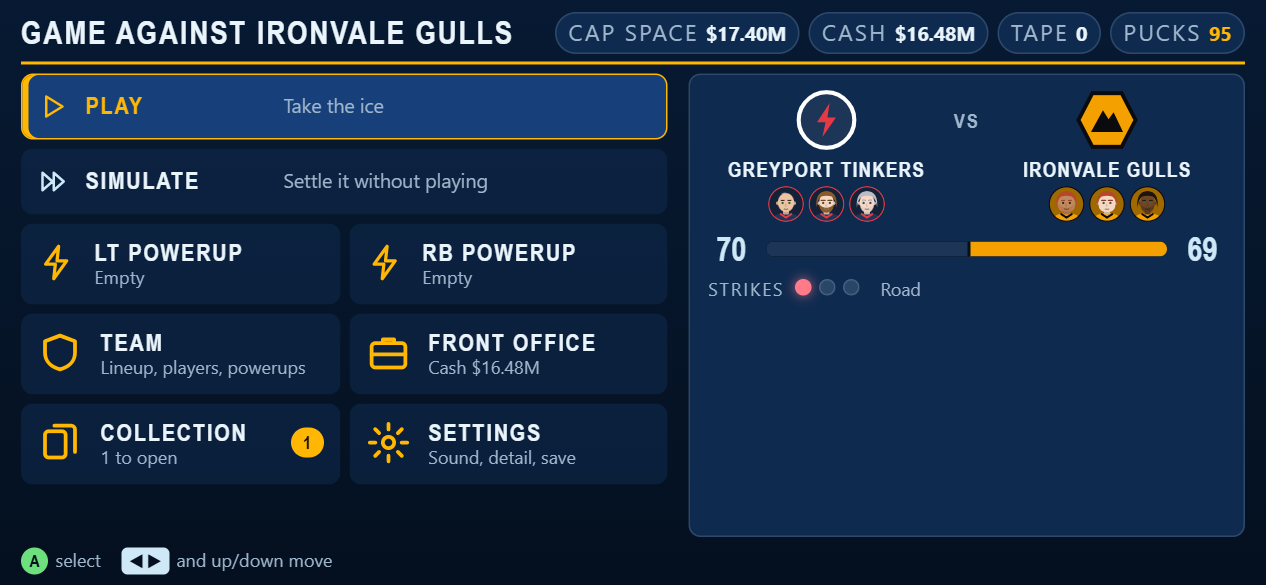
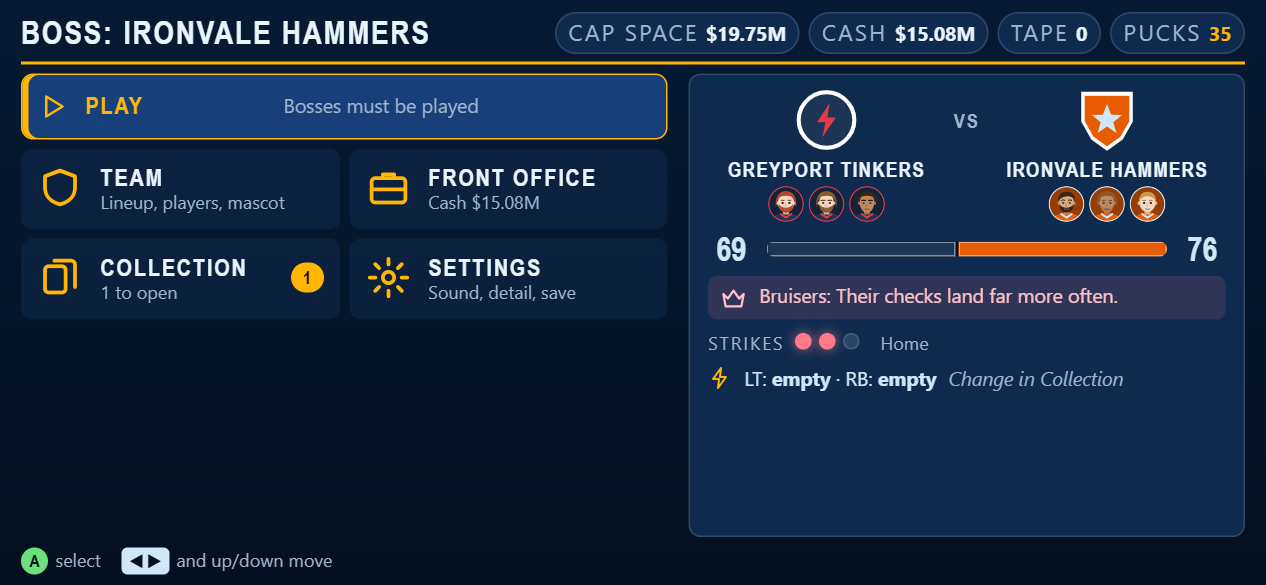
Move powerup selection into Collection, beside Gear
The LT and RB tiles are gone from the game screen and the Powerups row
from Team. The game poster still says what each button has loaded.

diff --git a/src/ui/App.tsx b/src/ui/App.tsx
@@ -159,8 +159,6 @@ const TILE_ICONS: Record<string, IconName> = {
   exhibition: 'exhibition',
   contracts: 'contracts',
   bailout: 'bailout',
-  'load-0': 'powerups',
-  'load-1': 'powerups',
 };
 const BUTTONS = ['LT', 'RB'];
 
@@ -310,9 +308,9 @@ export function App() {
   const earlyLock = f.books.length === 0 ? 'Opens after your first season.' : undefined;
   /** The four groups every hub screen ends with. */
   const groupItems = (): MenuItem[] => [
-    tile('team', 'Team', locked ? 'Roster, lineup, powerups, mascot' : 'Roster, lineup, free agents, trades, mascot', () => openGroup('team'), { badge: f.offseason.pending.length }),
+    tile('team', 'Team', locked ? 'Roster, lineup, mascot' : 'Roster, lineup, free agents, trades, mascot', () => openGroup('team'), { badge: f.offseason.pending.length }),
     tile('office', 'Front office', 'Finances, staff, facilities, prestige', () => openGroup('office')),
-    tile('collection', 'Collection', 'Packs, gear, artifacts, jersey', () => openGroup('collection'), { badge: f.packs.length }),
+    tile('collection', 'Collection', locked ? 'Packs, gear, powerups, artifacts, jersey' : 'Packs, gear, artifacts, jersey', () => openGroup('collection'), { badge: f.packs.length }),
     tile('settings', 'Settings', `Difficulty: ${difficultyInfo(f.difficulty).name} · save and load`, () => openGroup('settings')),
   ];
   const bump = (id: string): number => season.bumps[id] ?? 0;
@@ -558,7 +556,7 @@ export function App() {
 
     /** The four groups as dashboard tiles, for the foot of every in-season screen. */
     const groupCards = (): MenuItem[] => [
-      card('team', 'Team', 'Lineup, players, powerups', () => openGroup('team')),
+      card('team', 'Team', 'Lineup, players, mascot', () => openGroup('team')),
       card('office', 'Front office', `Cash ${money(f.cash)}`, () => openGroup('office')),
       card('collection', 'Collection', f.packs.length > 0 ? `${f.packs.length} to open` : `${f.gear.length} pieces`, () => openGroup('collection'), { badge: f.packs.length }),
       card('settings', 'Settings', 'Sound, detail, save', () => openGroup('settings')),
@@ -618,6 +616,11 @@ export function App() {
                 )}
                 <span>{isHomeGame(season.gamesPlayed + 1) ? 'Home' : 'Road'}</span>
               </div>
+              <div class="poster-loadout">
+                <Icon name="powerups" size={16} />
+                {loadoutLine}
+                <span class="note">Change in Collection</span>
+              </div>
             </MatchupPoster>
           }
           help="A select · left/right and up/down move"
@@ -631,23 +634,6 @@ export function App() {
                   }),
                 ]
               : []),
-            ...BUTTONS.map((button, slot): MenuItem => {
-              const id = season.loadout[slot];
-              return {
-                key: `load-${slot}`,
-                label: (
-                  <span class="dash-tile">
-                    <Icon name={id ? powerupIcon(id) : 'powerups'} size={26} />
-                    <span class="dash-text">
-                      <span class="dash-name">{button} powerup</span>
-                      <span class="dash-status">{id ? powerupInfo(id).name : 'Empty'}</span>
-                    </span>
-                  </span>
-                ),
-                detail: id ? powerupInfo(id).description : 'Choose a powerup to trigger with this button during the game.',
-                onSelect: () => go({ name: 'load', slot }),
-              };
-            }),
             ...groupCards(),
           ]}
         />
@@ -1660,7 +1646,6 @@ export function App() {
           tile('trade', 'Trade', 'One player for one player', () => go({ name: 'tradeTeams' }), {
             lock: locked ? 'Trades happen in the off-season.' : pending > 0 ? 'Decide your expiring contracts first.' : undefined,
           }),
-          ...(locked ? [tile('powerups', 'Powerups', `${season.powerups.length} in the bag`, () => go({ name: 'powerups' }))] : []),
           tile('mascot', 'Mascot', f.mascot.name, () => go({ name: 'mascot' })),
         ]}
       />
@@ -1707,6 +1692,13 @@ export function App() {
             detail: 'Packs are earned by winning season games and by reaching milestones.',
           }),
           tile('gear', 'Gear', `${f.gear.length} pieces · ${f.tape} tape`, () => go({ name: 'gear' }), { detail: 'Equip, level up with tape, or scrap for tape.' }),
+          ...(locked
+            ? [
+                tile('powerups', 'Powerups', `${season.powerups.length} in the bag`, () => go({ name: 'powerups' }), {
+                  detail: 'Choose what LT and RB trigger in a game. Powerups are used up, and any left over are lost when the season ends.',
+                }),
+              ]
+            : []),
           tile('artifacts', 'Artifacts', `${f.artifacts.length} owned`, () => go({ name: 'artifacts' }), { detail: 'Always on, and kept from season to season until you prestige.' }),
           tile('jersey', 'Jersey', unlockedJerseys(f)[f.prestige.jersey]?.name ?? '', () => go({ name: 'jersey' }), { detail: 'The colour your team wears on the ice.' }),
         ]}
@@ -2182,16 +2174,15 @@ export function App() {
         items={[
           ...BUTTONS.map((button, slot) => {
             const id = season.loadout[slot];
-            return {
-              key: `slot-${slot}`,
-              label: `${button}: ${id ? powerupInfo(id).name : 'empty'}`,
-              detail: id ? powerupInfo(id).description : 'Nothing loaded on this button.',
-              onSelect: () => go({ name: 'load', slot }),
-            };
+            return tile(`slot-${slot}`, `${button} button`, id ? powerupInfo(id).name : 'Empty', () => go({ name: 'load', slot }), {
+              icon: id ? powerupIcon(id) : 'powerups',
+              primary: true,
+              detail: id ? powerupInfo(id).description : 'Nothing loaded on this button. Press A to choose.',
+            });
           }),
           ...[...counts.entries()].map(([id, count]) => {
             const p = powerupInfo(id);
-            return { key: id, label: `${p.name}${count > 1 ? ` ×${count}` : ''}`, detail: p.description, disabled: true };
+            return tile(id, p.name, count > 1 ? `×${count} in the bag` : 'In the bag', () => undefined, { icon: powerupIcon(id), detail: p.description, disabled: true });
           }),
         ]}
       />
@@ -2205,18 +2196,13 @@ export function App() {
         key={screenKey}
         title={`${BUTTONS[screen.slot]} powerup`}
         header={distinct.length === 0 ? 'Your bag is empty. Win games, visit shops or take your chances at events.' : 'Choose what this button triggers in the next game.'}
-        onBack={home}
+        onBack={() => go({ name: 'powerups' })}
         items={[
-          { key: 'none', label: 'Nothing', onSelect: () => after(setLoadout(f, screen.slot, null), { name: 'home' }) },
+          { key: 'none', label: 'Nothing', onSelect: () => after(setLoadout(f, screen.slot, null), { name: 'powerups' }) },
           ...distinct.map((id) => {
             const p = powerupInfo(id);
             const count = season.powerups.filter((x) => x === id).length;
-            return {
-              key: id,
-              label: `${p.name}${count > 1 ? ` ×${count}` : ''}`,
-              detail: p.description,
-              onSelect: () => after(setLoadout(f, screen.slot, id), { name: 'home' }),
-            };
+            return tile(id, p.name, count > 1 ? `×${count}` : '', () => after(setLoadout(f, screen.slot, id), { name: 'powerups' }), { icon: powerupIcon(id), detail: p.description });
           }),
         ]}
       />

diff --git a/src/style.css b/src/style.css
@@ -666,3 +666,6 @@ h2 { font: 800 var(--size-small)/1.2 var(--heading); text-transform: uppercase; 
 .chip-empty { width: 34px; height: 34px; border-radius: 50%; border: 2px dashed var(--dim); }
 .bench { display: flex; align-items: center; gap: 8px; flex-wrap: wrap; font-size: 13px; }
 .bench-player { display: inline-flex; align-items: center; gap: 5px; background: var(--bg-deep); border: 1px solid var(--line); border-radius: 999px; padding: 1px 9px 1px 2px; }
+
+.poster-loadout { display: flex; align-items: center; gap: 8px; flex-wrap: wrap; font-size: 13px; color: var(--ice); }
+.poster-loadout .icon { color: var(--accent); flex: none; }

diff --git a/docs/DECISIONS.md b/docs/DECISIONS.md
@@ -129,6 +129,7 @@ Open decisions and their recommended defaults are listed in the last section of 
 | 2026-11-14 | Free agents | Sorted by best, cheapest or youngest (left and right), shown as all, forwards, defence or goalies (the Show row). The focused player is compared with the weakest player you have at his position, the one he would most likely replace. Sorting by position was replaced by the Show filter. | Interface round three |
 | 2026-11-14 | Trades | The offer is laid out side by side with the other team's answer between the two players, before and at the confirmation. | Interface round three |
 | 2026-11-14 | Prestige screen | Always open from the Front office: it shows the ladder of levels, the one you hold and what each gives, even when you cannot climb yet. | Interface round three |
+| 2026-11-14 | Where powerups are chosen | In Collection, beside Gear, during a season. The LT and RB tiles are gone from the game screen (asked for by the owner) and the Powerups row is gone from Team; the game poster still says what each button has loaded. | After interface round three |
 
 ## Open
 
